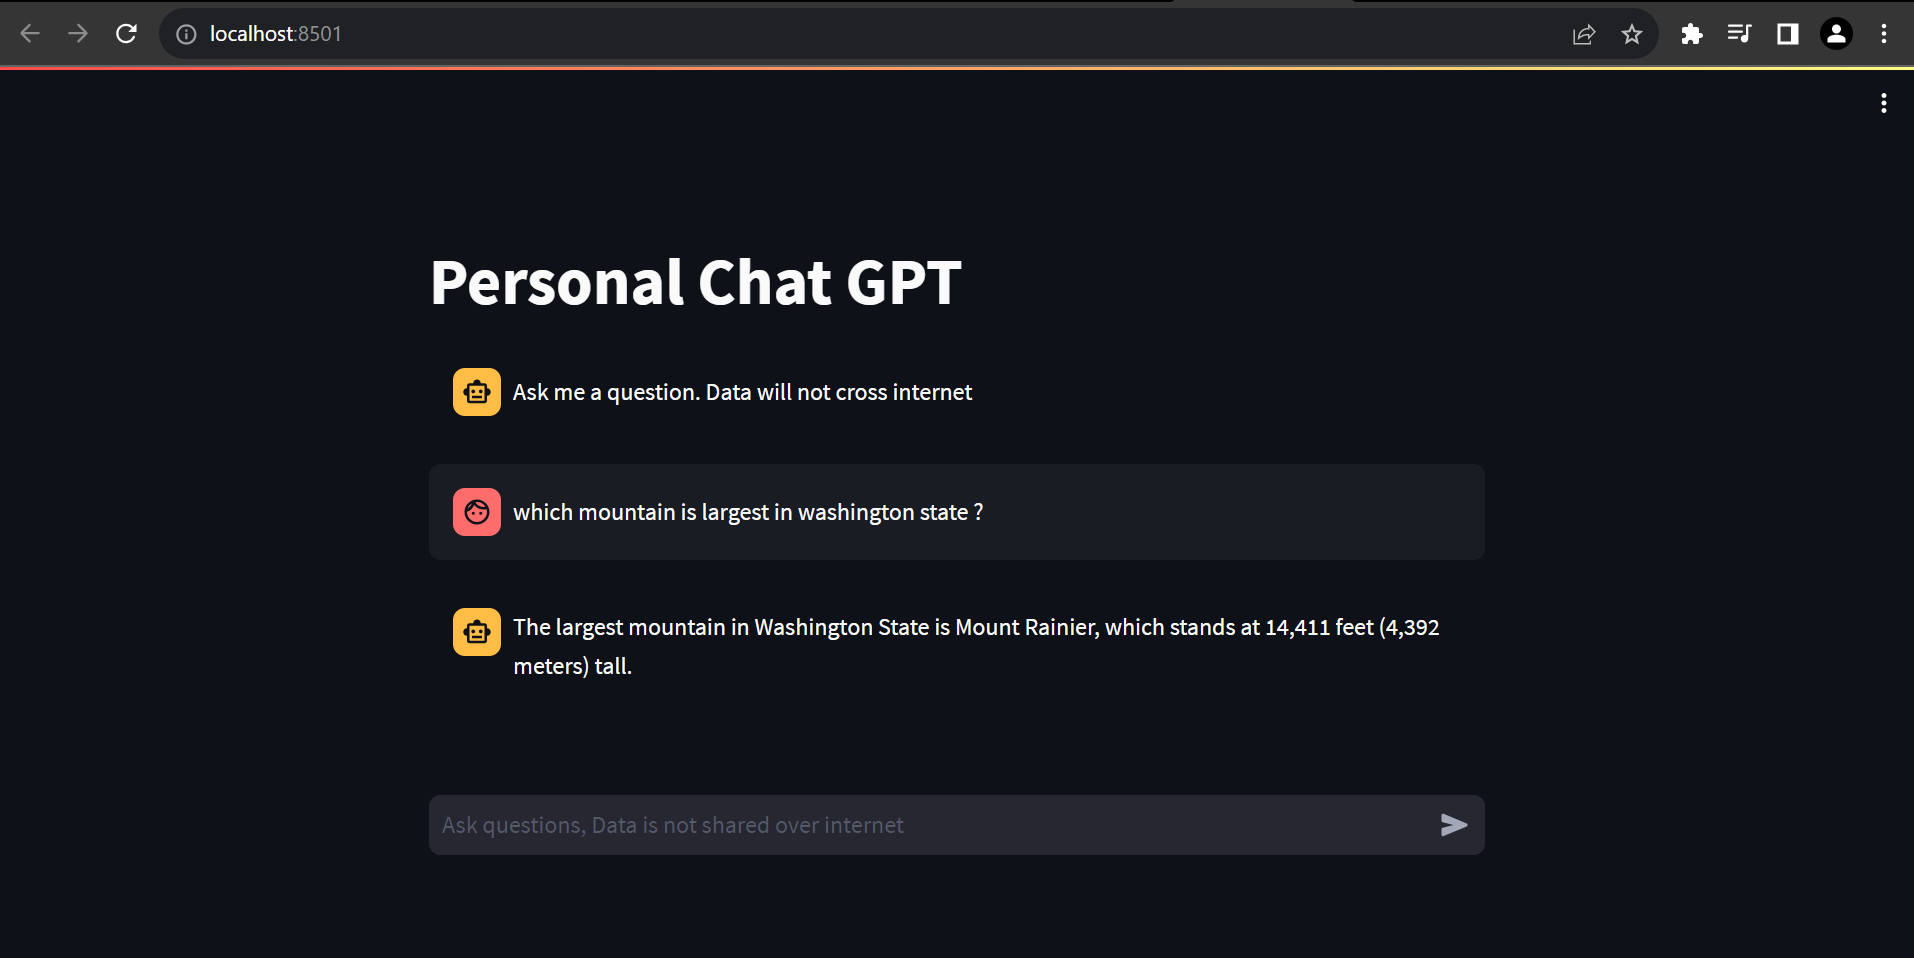
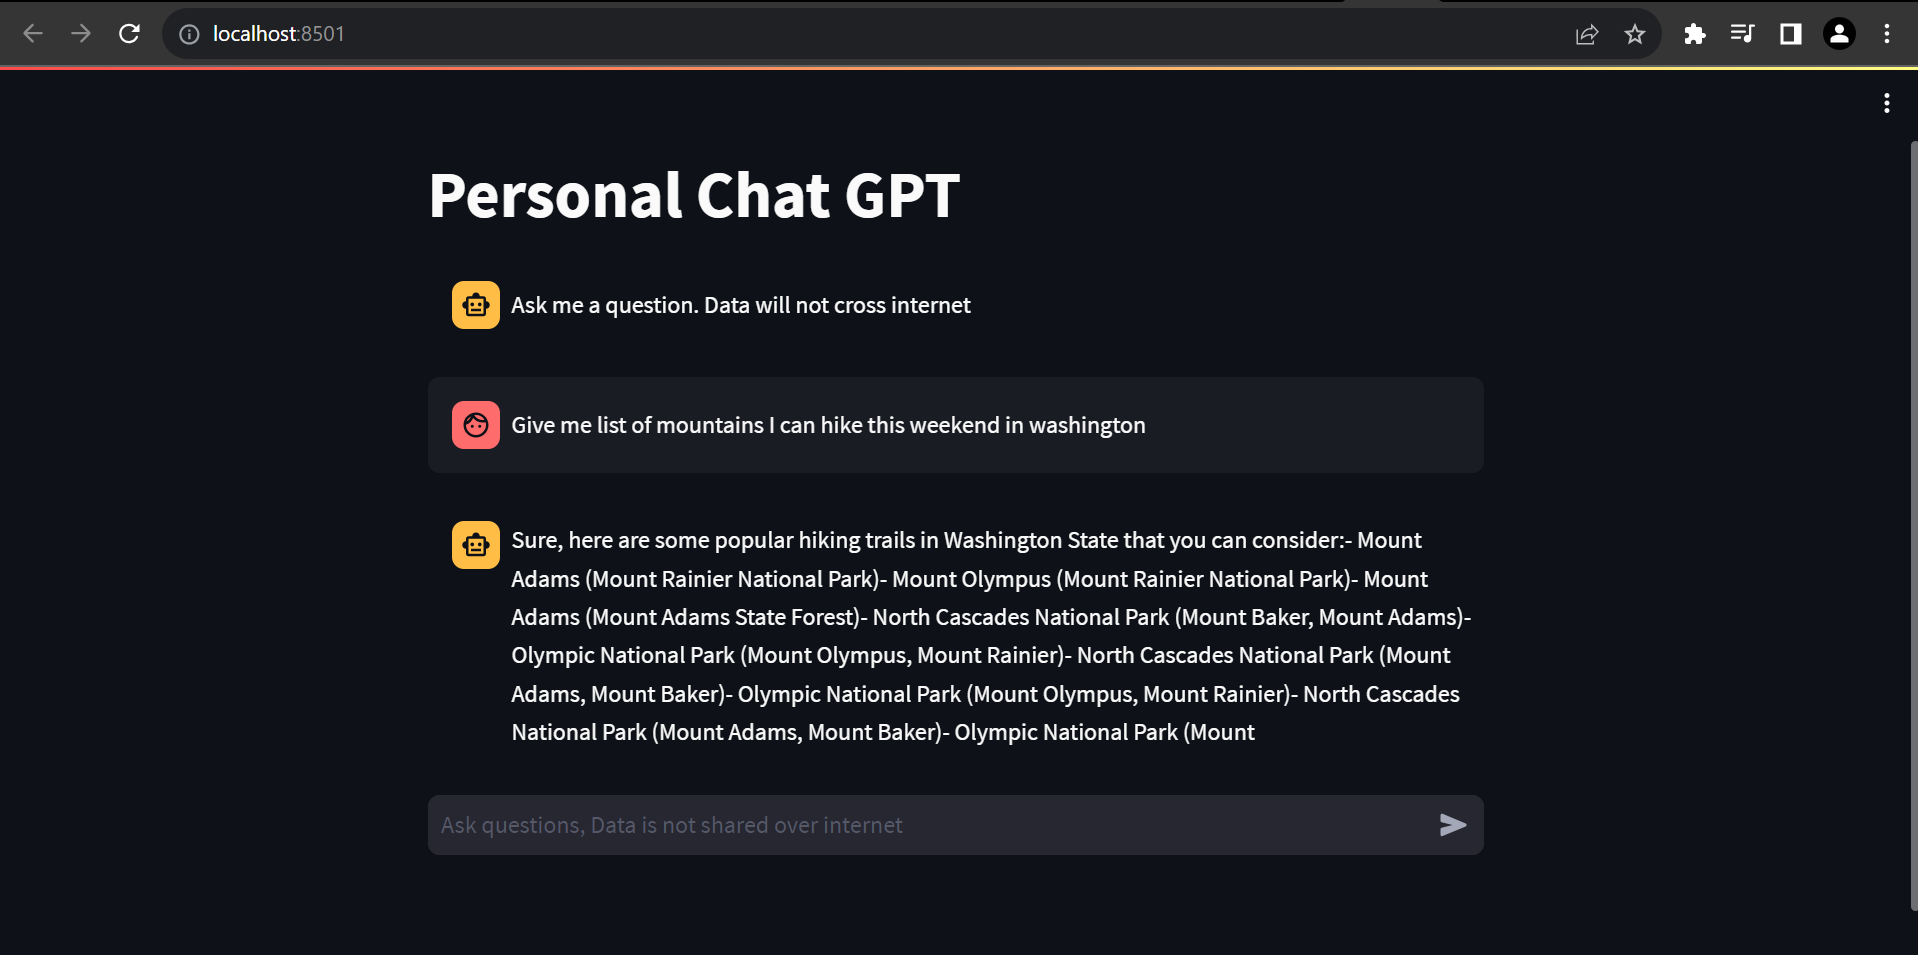
minor updated, added new image and updated redme file

diff --git a/README.md b/README.md
@@ -40,13 +40,17 @@ Application has one page and it build on Streamlit framework.
 ![](images/mainScreen.png)
 
 ### Processing Question 
-This step may take few min depend on local machine access
+This step may take few min depend on local machine memory
 
 ![](images/ProcessingRequest.png)
 
 ### Processed 
 GPT response to the question
 
+Example 1 :
 ![](images/ProcessedRequest.png)
+
+Example 2:
+![](images/mainScreen2.png)
 
 
